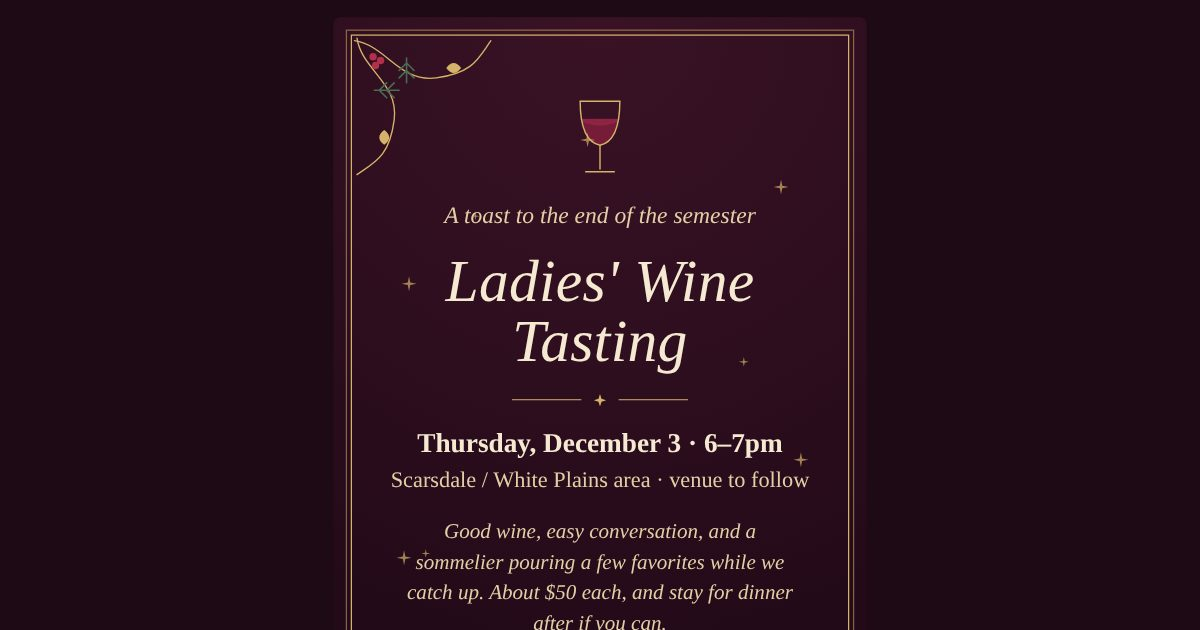
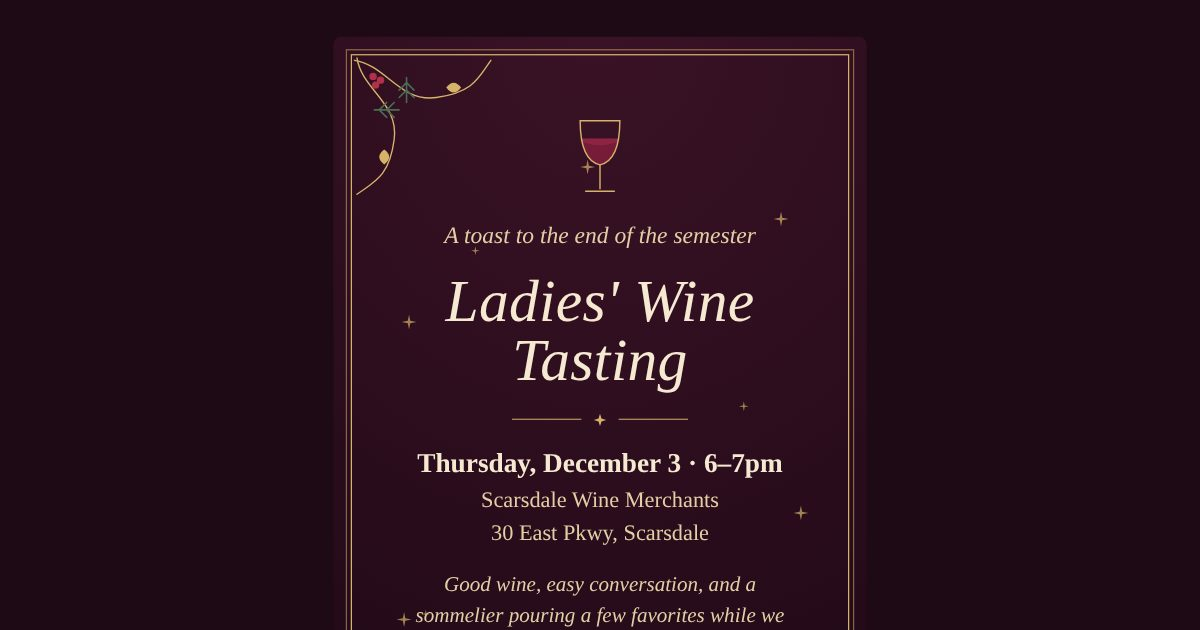
Venue: Scarsdale Wine Merchants; dinner nearby in the village, bill split
Claude-Session: https://claude.ai/code/session_01PZx2BRDJ8sGYgqT4Z9tZKF

diff --git a/wine-tasting/index.html b/wine-tasting/index.html
@@ -4,7 +4,7 @@
 <meta charset="utf-8">
 <meta name="viewport" content="width=device-width,initial-scale=1,viewport-fit=cover">
 <meta name="theme-color" content="#1E0A15">
-<meta name="description" content="A toast to the end of the semester, with a sommelier. Thursday, December 3 · 6–7pm. Tap to RSVP.">
+<meta name="description" content="A toast to the end of the semester, with a sommelier at Scarsdale Wine Merchants. Thursday, December 3 · 6–7pm. Tap to RSVP.">
 <meta property="og:type" content="website">
 <meta property="og:site_name" content="Invitations">
 <meta property="og:image" content="https://1294962213sh.github.io/wine-tasting/preview.jpg">
@@ -15,7 +15,7 @@
 <style>:root{padding-top:env(safe-area-inset-top,0px);padding-bottom:env(safe-area-inset-bottom,0px)}body{margin:0}img{max-width:100%}[hidden]{display:none!important}</style>
 <title>Ladies' Wine Tasting</title>
 <meta property="og:title" content="Ladies' Wine Tasting · Dec 3">
-<meta property="og:description" content="A toast to the end of the semester, with a sommelier. Thursday, December 3 · 6–7pm. Tap to RSVP.">
+<meta property="og:description" content="A toast to the end of the semester, with a sommelier at Scarsdale Wine Merchants. Thursday, December 3 · 6–7pm. Tap to RSVP.">
 <link rel="stylesheet" href="https://fonts.googleapis.com/css2?family=Cormorant+Garamond:ital,wght@0,400;0,500;0,600;1,400;1,500&family=Jost:wght@400;500&display=swap">
 <style>
   /* Layout: one invitation card on a midnight-plum ground; RSVP below on champagne paper. Single committed look (dark). */
@@ -239,8 +239,8 @@
       <h1 id="title">Ladies' Wine Tasting</h1>
       <div class="orn" aria-hidden="true"><svg viewBox="0 0 10 10"><path d="M5 0 L6.2 3.8 L10 5 L6.2 6.2 L5 10 L3.8 6.2 L0 5 L3.8 3.8 Z" fill="currentColor"/></svg></div>
       <p class="when" id="when">Thursday, December 3 · 6–7pm</p>
-      <p class="where" id="where">Scarsdale / White Plains area · venue to follow</p>
-      <p class="note" id="note">Good wine, easy conversation, and a sommelier pouring a few favorites while we catch up. About $50 each, and stay for dinner after if you can.</p>
+      <p class="where" id="where">Scarsdale Wine Merchants<br>30 East Pkwy, Scarsdale</p>
+      <p class="note" id="note">Good wine, easy conversation, and a sommelier pouring a few favorites while we catch up, about $50 each. Afterward, dinner close by in Scarsdale village for anyone who can stay; we'll split the bill.</p>
 
       <div class="actions">
         <div class="lbl">Add to calendar</div>
@@ -313,9 +313,9 @@ const EVENT = {
   end:   "2026-12-03T19:00:00",
   tz:    "America/New_York",
   dateLabel: "Thursday, December 3 · 6–7pm",
-  address: "",                        // e.g. "12 Orchard Lane, Scarsdale NY" — empty shows the placeholder line
-  addressHint: "Scarsdale / White Plains area · venue to follow",
-  details: "Good wine, easy conversation, and a sommelier pouring a few favorites while we catch up. About $50 each, and stay for dinner after if you can.",
+  address: "Scarsdale Wine Merchants, 30 East Pkwy, Scarsdale, NY 10583",
+  addressDisplay: "Scarsdale Wine Merchants<br>30 East Pkwy, Scarsdale",   // how it reads on the card; the full address above feeds Maps and calendars
+  details: "Good wine, easy conversation, and a sommelier pouring a few favorites while we catch up, about $50 each. Afterward, dinner close by in Scarsdale village for anyone who can stay; we'll split the bill.",
   // Google Form connection — where RSVPs are stored
   form: {
     action: "https://docs.google.com/forms/d/e/1FAIpQLScCiUJMqiOSVvGrGlnZwE9t_7RkEplYKUHguzSnAe4gRlh26w/formResponse",
@@ -336,7 +336,7 @@ $("when").textContent = EVENT.dateLabel;
 $("note").innerHTML = EVENT.details;
 document.title = EVENT.title;
 
-$("where").textContent = EVENT.address || EVENT.addressHint || "Address to follow";
+$("where").innerHTML = EVENT.addressDisplay || EVENT.address || EVENT.addressHint || "Address to follow";
 if (EVENT.address) {
   const m = $("map");
   m.href = "https://maps.google.com/?q=" + encodeURIComponent(EVENT.address);
